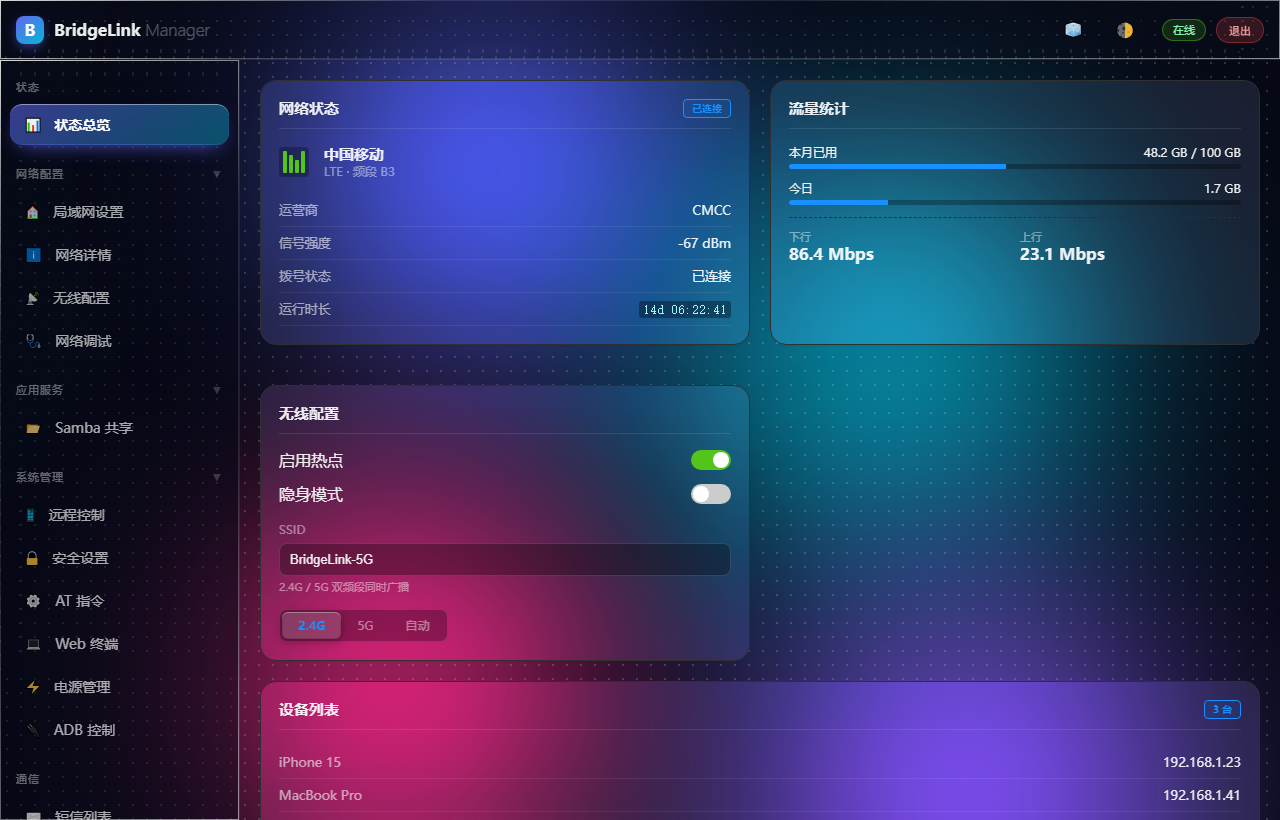
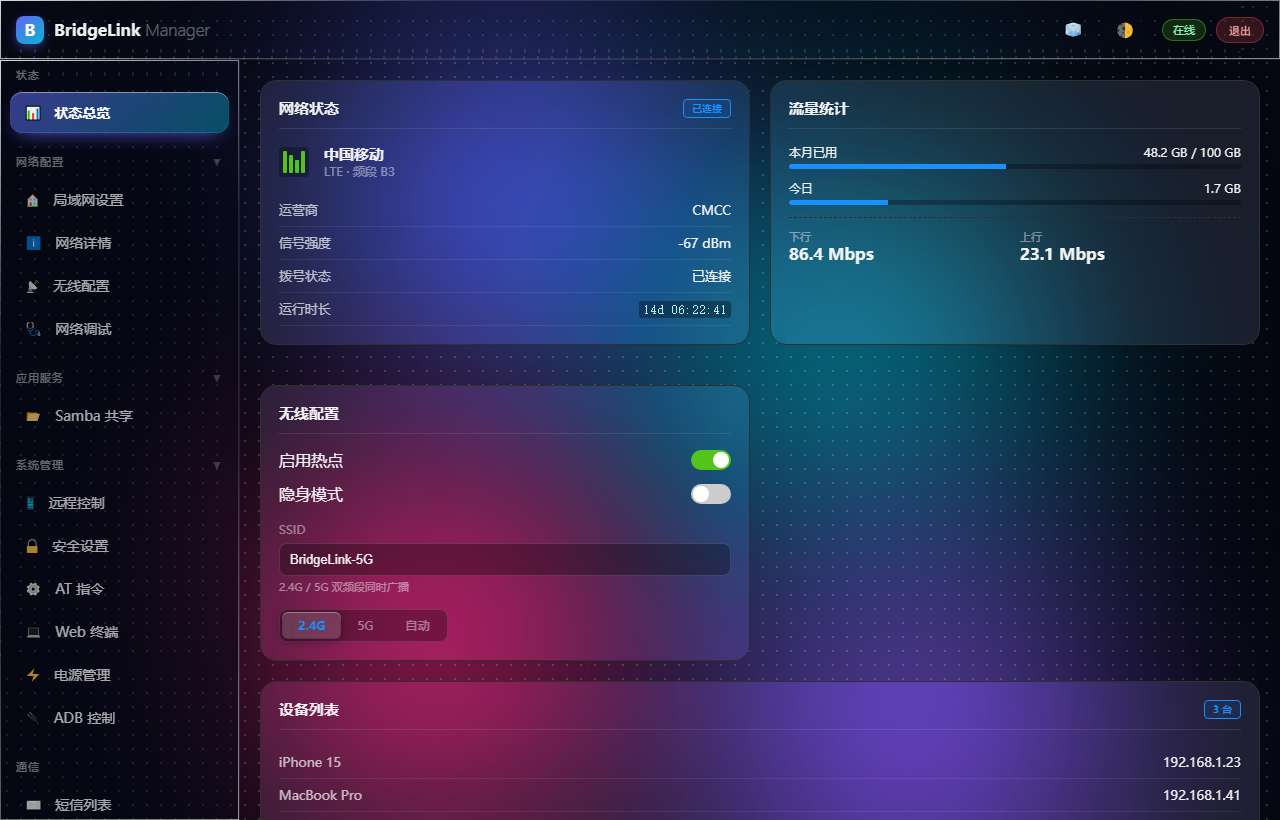
fix(web): 修掉指针高光残影、降低移动端刷新闪烁、收紧侧边栏顶部间距
1. 指针高光残影（真 bug）
   bindSheen 只切换卡片的 .lg-sheen 类，但创建的 .lg-spec 元素上带了 .on，
   而可见性规则写的是 .lg-spec.on —— 移开指针后类没被移除，光斑永久留在卡片上。
   改成可见性由父级 .lg-sheen 控制（.lg-sheen > .lg-spec），元素不再自带 .on。

2. 数据刷新时的闪烁
   上一轮给 .lg-aurora 加的 filter: brightness() 是**全屏滤镜**，
   背景一变就整屏重跑，手机上代价很大。改成一层半透明黑的 .lg-dim（纯合成）。
   另外极光动画从 60fps 锁到 ~15fps：背景每变一次，页面上所有 backdrop-filter
   都要重新采样一次背景，锁帧能省掉约 3/4 开销，而极光动得很慢，看不出区别。
   页面不可见时自动停掉动画。

3. 新增「背景动效」开关
   数据轮询频繁（overview 2s / net-info 3s，且会 innerHTML 重建 CPU 图表和表格）
   时若仍闪烁，可一键关掉背景动画来定位是动画引起还是 backdrop-filter 引起。

4. 侧边栏第一个分组标题的顶部内边距 20px -> 8px
   深色侧边栏时不明显，换成玻璃后就是一条显眼的空白带。

5. .lg-aurora 的 contain 从 strict 放宽为 layout paint style
   strict 含 size containment，和 backdrop-filter 的背景采样叠在一起容易出怪问题。

diff --git a/app/src/main/assets/web/js/liquid-glass.js b/app/src/main/assets/web/js/liquid-glass.js
@@ -134,6 +134,10 @@
             host.appendChild(el);
             nodes.push(el);
         }
+        // 暗化层也要跟着复制一份，否则玻璃内部那份会比外面亮
+        var dim = document.createElement('i');
+        dim.className = 'lg-dim';
+        host.appendChild(dim);
         return nodes;
     }
 
@@ -275,7 +279,9 @@
                     cur.classList.add('lg-sheen');
                     if (!cur.querySelector(':scope > .lg-spec')) {
                         var sp = document.createElement('div');
-                        sp.className = 'lg-spec on';
+                        // 不要在这里加 .on —— 可见性由父级的 .lg-sheen 控制，
+                        // 否则指针移开后光斑会永久留在卡片上
+                        sp.className = 'lg-spec';
                         cur.insertBefore(sp, cur.firstChild);
                     }
                 }
@@ -336,7 +342,7 @@
      *  3c. 背景设置（极光 / 纯色 / 自定义图片）
      * ------------------------------------------------------------------ */
     var BG_KEY = 'lg-bg';
-    var bg = { mode: 'aurora', solid: '#0b1020', image: '', blur: true, dim: 0.25 };
+    var bg = { mode: 'aurora', solid: '#0b1020', image: '', blur: true, dim: 0.25, motion: true };
     var IMAGE_MAX_EDGE = 1600;
     var IMAGE_SOFT_LIMIT = 3.6 * 1024 * 1024;   // localStorage 一般 5MB，留点余量
 
@@ -351,6 +357,7 @@
                     if (typeof o.image === 'string') bg.image = o.image;
                     if (typeof o.blur === 'boolean') bg.blur = o.blur;
                     if (typeof o.dim === 'number') bg.dim = Math.min(0.8, Math.max(0, o.dim));
+                    if (typeof o.motion === 'boolean') bg.motion = o.motion;
                 }
             }
         } catch (e) {}
@@ -373,8 +380,9 @@
             root.setAttribute('data-lg-bg', 'aurora');
         }
         root.setAttribute('data-lg-blur', bg.blur ? 'on' : 'off');
-        // 亮度 = 1 - 暗化量：自定义图片常常偏亮，需要压一压才能保证前景可读
-        root.style.setProperty('--lg-dim', (1 - bg.dim).toFixed(3));
+        // 一层半透明黑，纯合成；不用 filter: brightness()（全屏滤镜，代价高）
+        root.style.setProperty('--lg-dim-op', bg.dim.toFixed(3));
+        startMotion();
     }
 
     /** 读图 → 等比缩到 1600px 内 → 转 JPEG，避免把大图塞进 localStorage */
@@ -407,9 +415,28 @@
     /* 每帧只做 blob 的 transform（纯合成，不触发布局）。
        玻璃层与视口的对齐只在尺寸/位置真的变了时才重算 —— 之前每帧调
        getBoundingClientRect() 会强制同步布局，是卡顿的另一个来源。 */
+    /* 极光动得很慢，不需要 60fps。
+       而且背景每变一次，页面上所有 backdrop-filter 都要重新采样一次背景 ——
+       锁到 ~15fps 能省掉大约 3/4 的开销，视觉上看不出区别。 */
+    var BLOB_INTERVAL = 66;
+    var lastBlobTs = -1e9;
+
     function tick(t) {
-        stepBlobs(t);
-        if (isOn()) rafId = requestAnimationFrame(tick);
+        if (!bg.motion || document.hidden || !isOn()) { rafId = null; return; }
+        if (t - lastBlobTs >= BLOB_INTERVAL) {
+            lastBlobTs = t;
+            stepBlobs(t);
+        }
+        rafId = requestAnimationFrame(tick);
+    }
+
+    function startMotion() {
+        if (!isOn() || !bg.motion || document.hidden) return;
+        if (rafId === null) { lastBlobTs = -1e9; rafId = requestAnimationFrame(tick); }
+    }
+
+    function stopMotion() {
+        if (rafId !== null) { cancelAnimationFrame(rafId); rafId = null; }
     }
 
     function syncAll() {
@@ -431,13 +458,13 @@
             if (s) surfaces.push(s);
         }
         syncAll();
-        if (rafId === null) rafId = requestAnimationFrame(tick);
+        startMotion();
     }
 
     function disable() {
         if (!active) return;
         active = false;
-        if (rafId !== null) { cancelAnimationFrame(rafId); rafId = null; }
+        stopMotion();
         for (var i = 0; i < surfaces.length; i++) {
             var s = surfaces[i];
             if (s.layer.parentNode) s.layer.parentNode.removeChild(s.layer);
@@ -493,6 +520,8 @@
             '      <label class="lg-switch"><input type="checkbox" id="lg-opt-skin"><i></i></label></div>' +
             '    <div class="lg-row"><span>毛玻璃模糊<small>关掉可明显提升老设备流畅度</small></span>' +
             '      <label class="lg-switch"><input type="checkbox" id="lg-opt-blur"><i></i></label></div>' +
+            '    <div class="lg-row"><span>背景动效<small>数据刷新频繁时，关掉可以消除闪烁</small></span>' +
+            '      <label class="lg-switch"><input type="checkbox" id="lg-opt-motion"><i></i></label></div>' +
             '    <div class="lg-sub">背景</div>' +
             '    <div class="lg-seg" id="lg-bg-seg">' +
             '      <button type="button" data-mode="aurora">极光</button>' +
@@ -538,6 +567,10 @@
         $('lg-opt-dim').addEventListener('input', function () {
             bg.dim = (+this.value) / 100; saveBg(); applyBg();
         });
+        $('lg-opt-motion').addEventListener('change', function () {
+            bg.motion = this.checked; saveBg();
+            if (bg.motion) startMotion(); else stopMotion();
+        });
         $('lg-file-input').addEventListener('change', function () {
             var f = this.files && this.files[0];
             this.value = '';
@@ -563,6 +596,7 @@
         if (!$('lg-settings')) return;
         $('lg-opt-skin').checked = isOn();
         $('lg-opt-blur').checked = bg.blur;
+        $('lg-opt-motion').checked = bg.motion;
         $('lg-opt-solid').value = bg.solid;
         $('lg-opt-dim').value = Math.round(bg.dim * 100);
         $$('#lg-bg-seg button').forEach(function (b) {
@@ -650,6 +684,11 @@
         window.addEventListener('orientationchange', function () {
             setTimeout(function () { syncAll(); }, 300);
         }, { passive: true });
+
+        // 页面不可见时停掉背景动画，省电也省得回来时闪一下
+        document.addEventListener('visibilitychange', function () {
+            if (document.hidden) stopMotion(); else startMotion();
+        });
     }
 
     if (document.readyState === 'loading') {

diff --git a/app/src/main/assets/web/css/liquid-glass.css b/app/src/main/assets/web/css/liquid-glass.css
@@ -51,9 +51,21 @@
     overflow: hidden;
     background: #060814;
     pointer-events: none;
-    contain: strict;
-    /* 背景暗化：自定义图片/浅色背景下，靠它把前景对比度拉回来 */
-    filter: brightness(var(--lg-dim, 1));
+    /* layout+paint 就够了。不要用 strict —— 它含 size containment，
+       和 backdrop-filter 的背景采样叠在一起容易出怪问题 */
+    contain: layout paint style;
+}
+
+/* 背景暗化层。
+   原来用的是 .lg-aurora 上的 filter: brightness()，那是个**全屏滤镜**，
+   背景每变一次就要整屏重跑一遍，手机上代价很大 —— 换成一层半透明黑，
+   纯合成，没有逐像素开销。 */
+.lg-dim {
+    position: absolute;
+    inset: 0;
+    background: #000;
+    opacity: var(--lg-dim-op, 0);
+    pointer-events: none;
 }
 
 /* 每团光一个元素，位置和大小靠 JS 每帧写 transform，保证基础层和玻璃副本完全同步
@@ -162,7 +174,9 @@
     mask-composite: exclude;
 }
 
-/* 跟随指针的镜面高光 */
+/* 跟随指针的镜面高光。
+   注意可见性绑在**卡片的 .lg-sheen 类**上，不是元素自己的 .on ——
+   之前把 on 写在元素上，指针移开后类没被移除，光斑就永久留在卡片上了。 */
 .lg-spec {
     position: absolute;
     inset: 0;
@@ -174,7 +188,7 @@
         rgba(255, 255, 255, .28), rgba(255, 255, 255, .06) 45%, transparent 70%);
     mix-blend-mode: screen;
 }
-.lg-spec.on { opacity: 1; }
+.lg-sheen > .lg-spec { opacity: 1; }
 
 /* ------------------------------------------------------------ 顶栏 */
 [data-skin="glass"] #header {
@@ -260,6 +274,10 @@
 }
 
 [data-skin="glass"] .nav-section { color: rgba(255, 255, 255, .38); }
+
+/* 第一个分组标题上方原来有 20px 内边距，深色侧边栏时不明显，
+   换成玻璃之后就是一条显眼的空白带，收紧一点 */
+[data-skin="glass"] .nav-menu > .nav-section:first-child { padding-top: 8px; }
 
 [data-skin="glass"] .nav-item {
     margin: 2px 10px;
